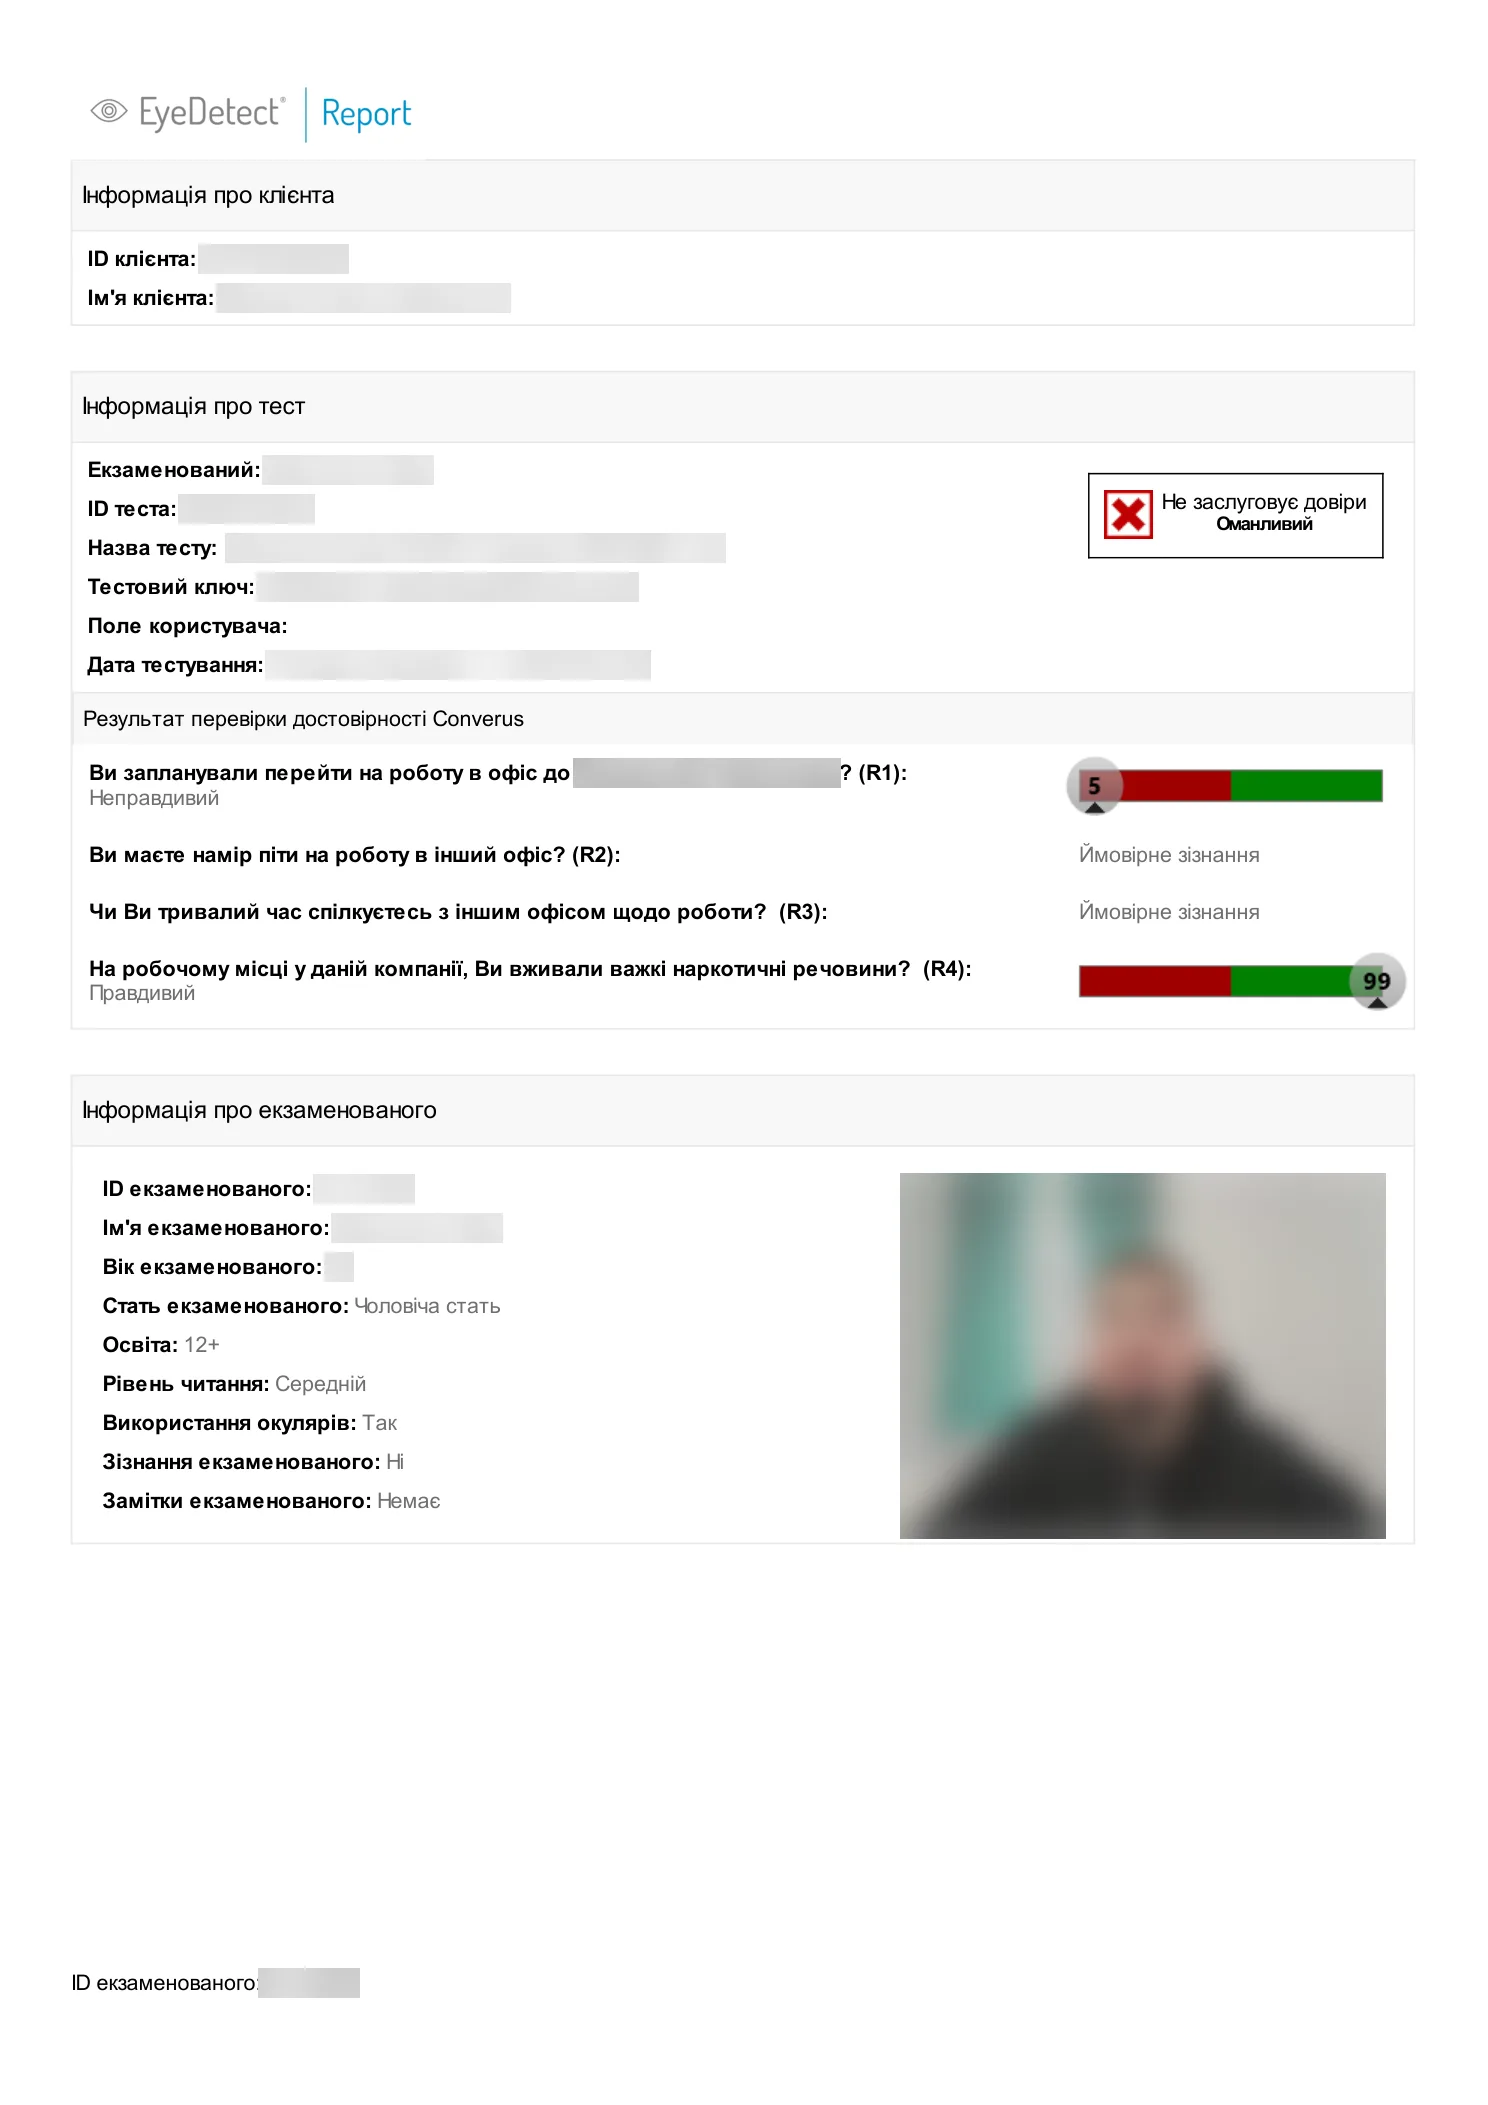
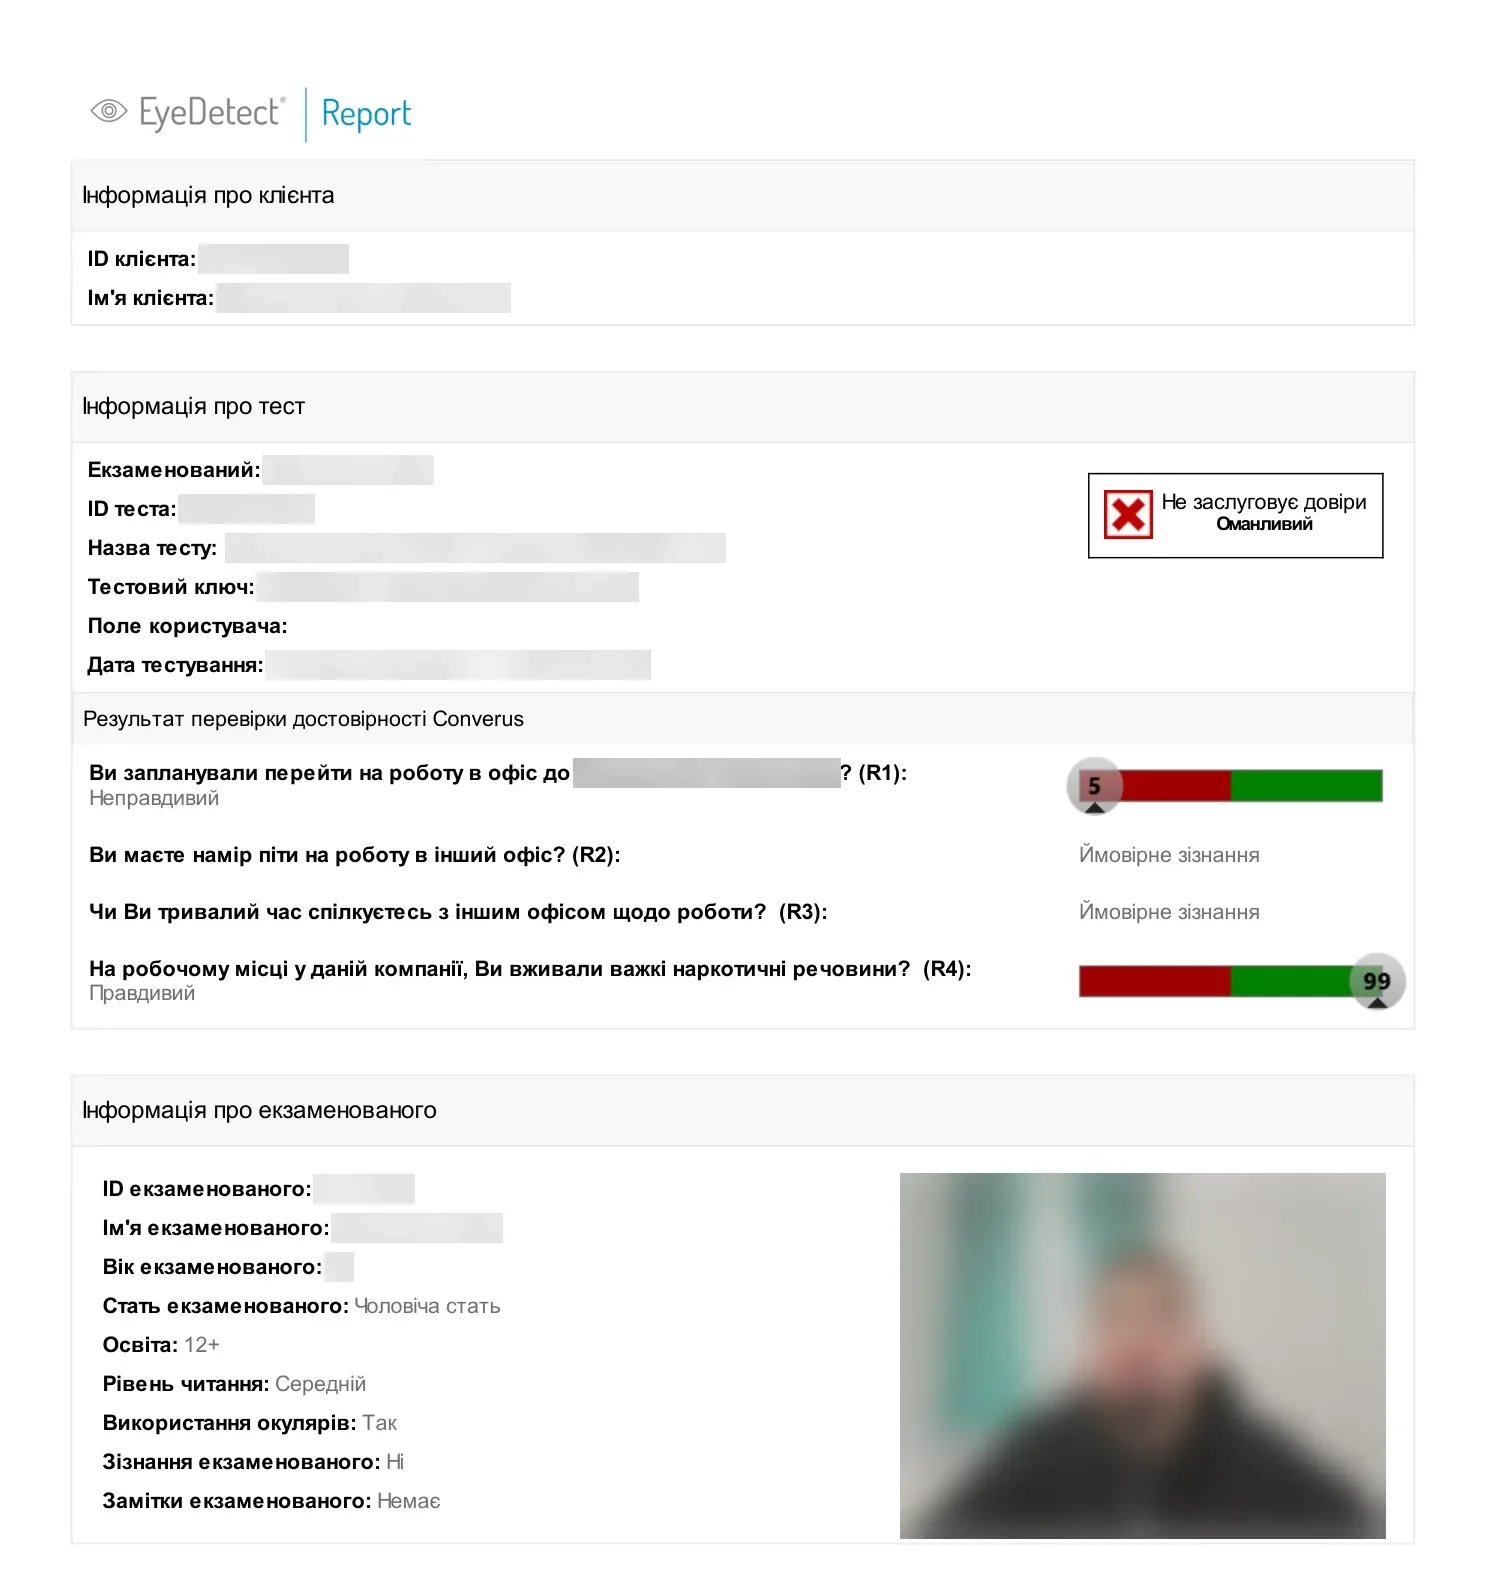
зразки звітів EyeDetect: обрізано порожній низ

diff --git a/src/sections/situationPage/SituationSections.jsx b/src/sections/situationPage/SituationSections.jsx
@@ -91,7 +91,7 @@ const SituationSections = ({ s, lang, others, dictionary }) => {
           </Reveal>
           <Reveal delay={0.1} className={styles.reportFigure}>
             <div className={styles.reportImg}>
-              <Image src={s.report} alt={t.reportCaption} width={1488} height={2105} sizes="(max-width: 1023px) 100vw, 440px" />
+              <Image src={s.report} alt={t.reportCaption} width={1488} height={1595} sizes="(max-width: 1023px) 100vw, 440px" />
             </div>
             <p className={styles.caption}>{t.reportCaption}</p>
           </Reveal>

diff --git a/src/sections/homeSections/homeReportSection/HomeReportSection.jsx b/src/sections/homeSections/homeReportSection/HomeReportSection.jsx
@@ -29,7 +29,7 @@ const HomeReportSection = ({ dictionary }) => {
               src="/images/report-sample-eyedetect.webp"
               alt={d.caption}
               width={1488}
-              height={2105}
+              height={1595}
               sizes="(max-width: 1023px) 100vw, 480px"
             />
           </div>
